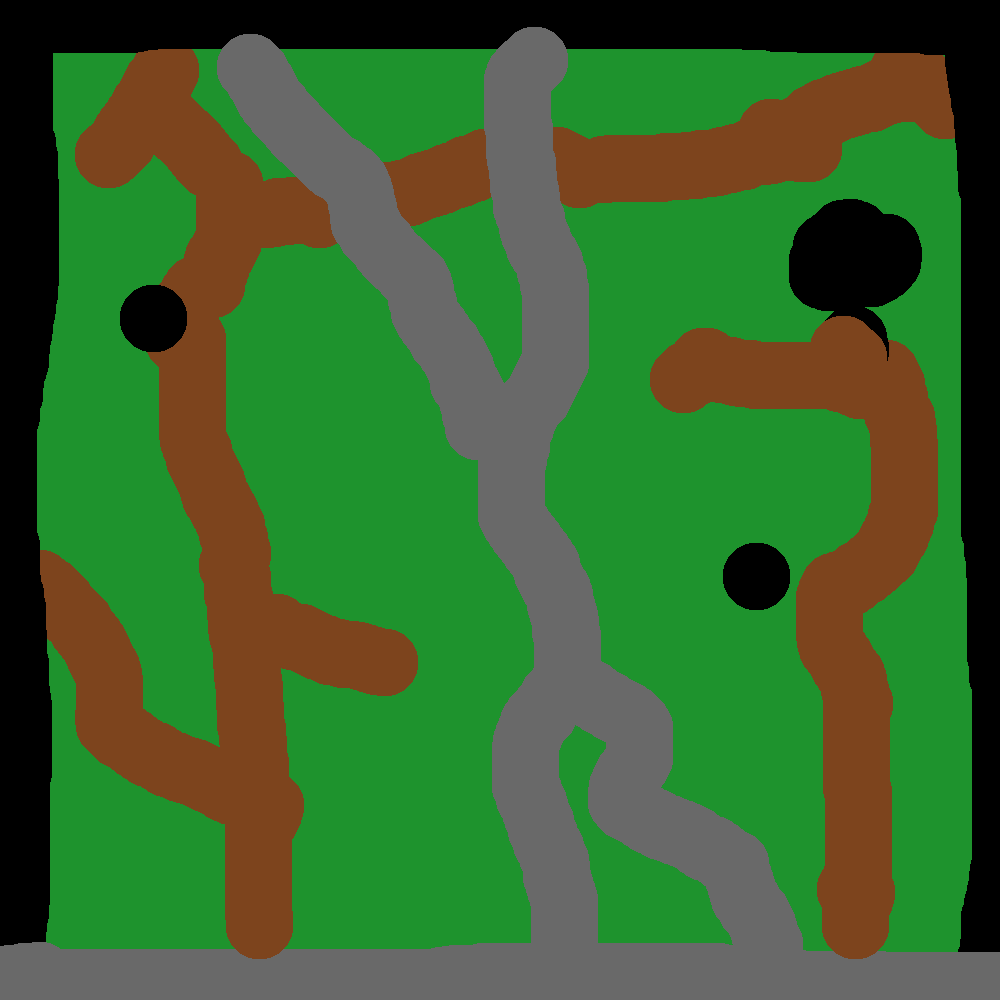
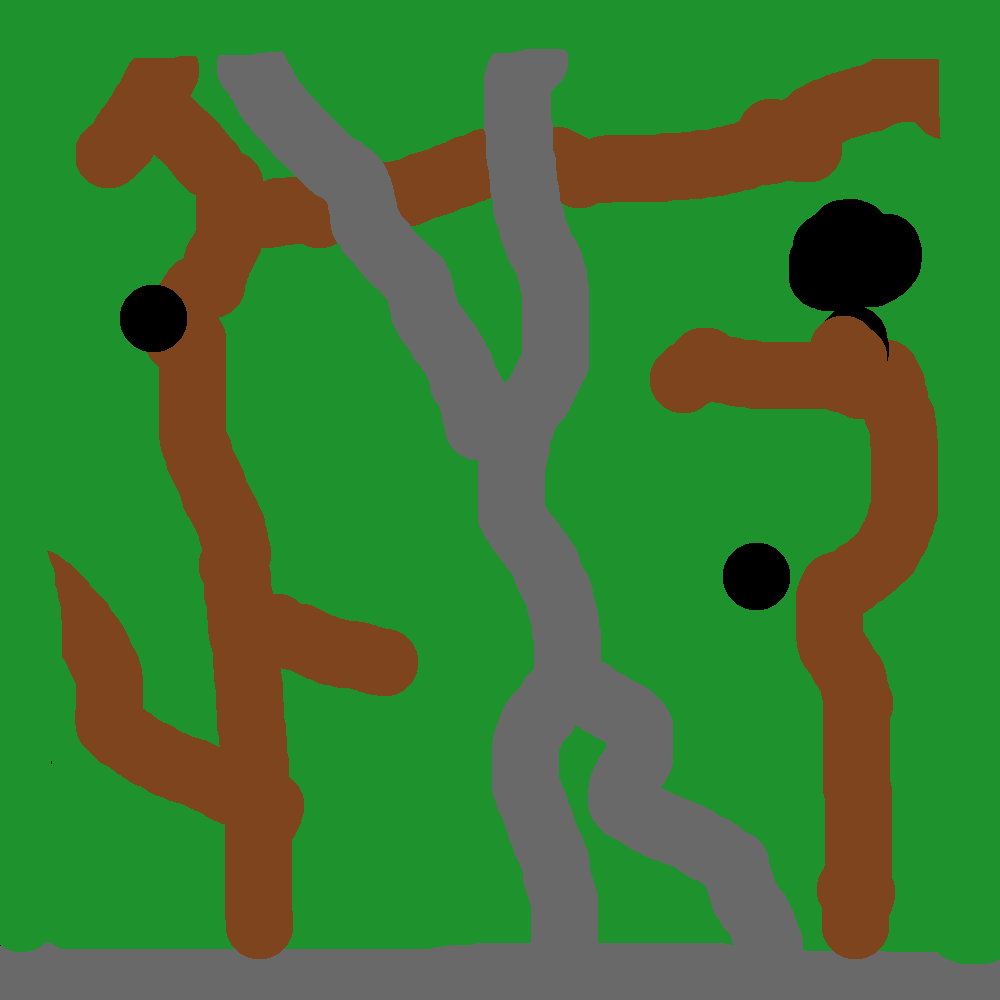
Updated the image_to_map script to add a cliff border to the final map.
Without the cliff border the program sometimes crashes because it tries
to search outside the map bounds.

Changed region(s): [[0.0, 0.0, 1.0, 0.961]]

diff --git a/scripts/image_to_map.py b/scripts/image_to_map.py
@@ -26,8 +26,14 @@ print("Image height: " + str(height))
 print("Image width: " + str(width))
 
 with open(mapName, "wt") as file:
-    file.write(str(height) + " " + str(width) + "\n")
+    # + 2 for an added CLIFF border
+    file.write(str(height + 2) + " " + str(width + 2) + "\n")
+
+    for x in range(0, width + 2): file.write('C')
+    file.write('\n')
+
     for y in range(0, height):
+        file.write('C')
         for x in range(0, width):
             pixel = image.getpixel((x, y))
             if pixel == openColor:
@@ -38,4 +44,6 @@ with open(mapName, "wt") as file:
                 file.write('T')
             else:
                 file.write('C')
-        file.write('\n')
+        file.write('C\n')
+
+    for x in range(0, width + 2): file.write('C')

diff --git a/src/orientee.cpp b/src/orientee.cpp
@@ -82,6 +82,7 @@ namespace ppc
 				orientation = combine_directions(orientation, moveDirection);
 				position = get_position(position, orientation);
 				assert(map[position.second][position.first] != CLIFF);
+				PPC_LOG(debug) << "Position updated: " << to_string(position);
 			}
 
 			if (tag & tags::QUERY)
